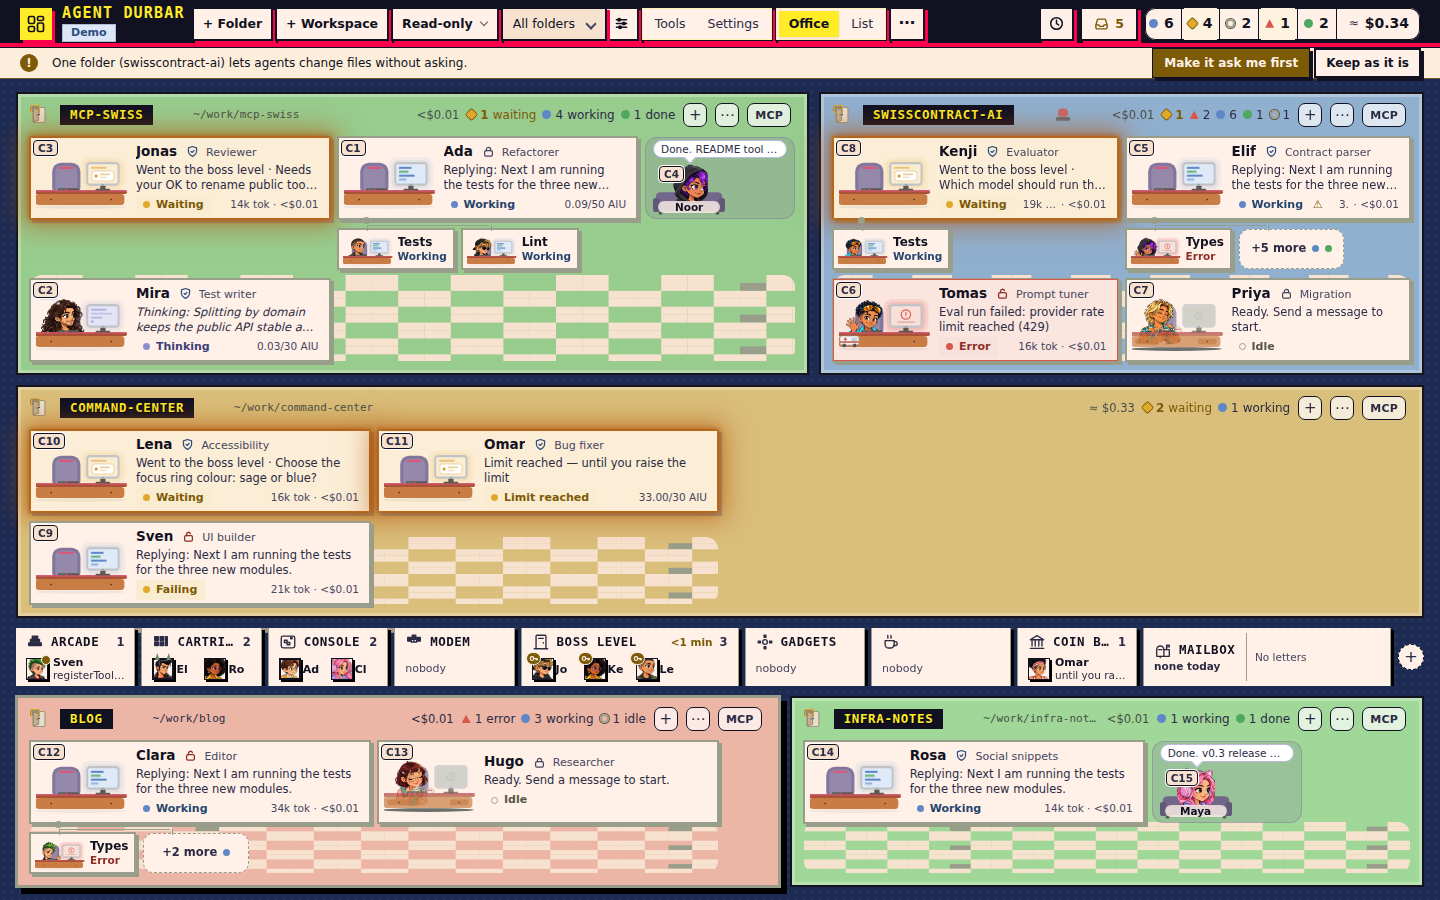
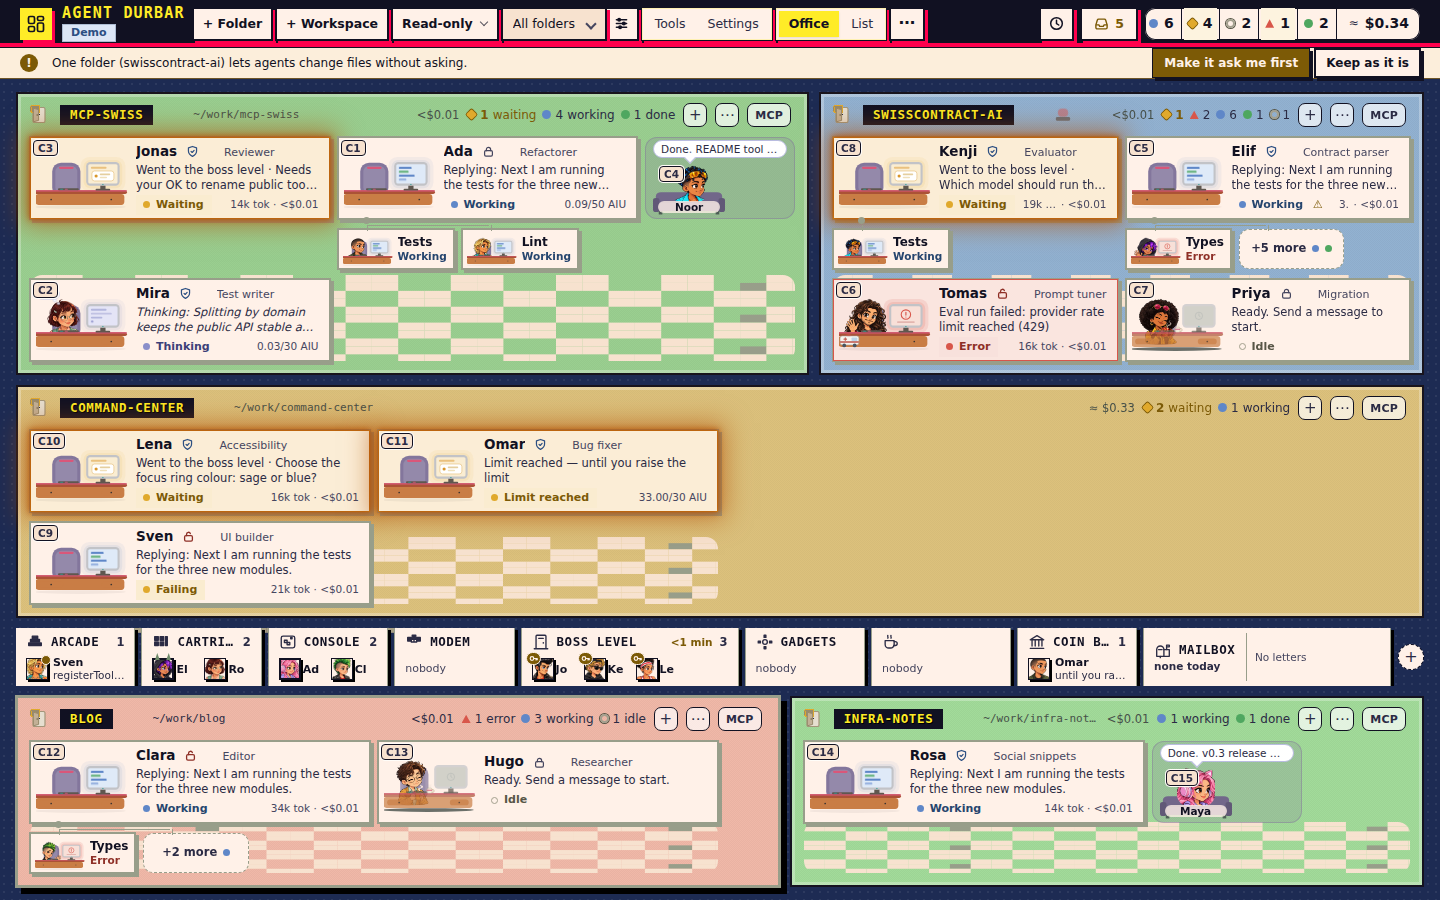
077 FR-073: the simulator gives each demo agent a crew character that fits its name (#879)

diff --git a/scripts/test-crew.ts b/scripts/test-crew.ts
@@ -1,5 +1,6 @@
 /** Cheeky crew (spec 077): the pure pick and storage rules of src/renderer/crew.js. `npm run test:crew`. No DOM, no credits. */
 import * as assert from 'assert';
+import * as fs from 'fs';
 import * as path from 'path';
 
 // eslint-disable-next-line @typescript-eslint/no-var-requires
@@ -160,5 +161,50 @@ assert.deepStrictEqual(Object.keys(C.FACE).sort(), [...C.ALL_IDS].sort(), 'a fac
   const ss = Array.from({ length: 13 }, (_, i) => 's' + i);
   const m = C.assignCrew({}, ss, C.IDS, (id) => C.seededRand(id));
   assert.strictEqual(new Set(Object.values(m)).size, 13, 'thirteen sessions wear thirteen different characters');
+}
+
+// ---- spec 077 FR-073 (issue #879): the simulator gives each demo name a fitting character; real sessions are untouched ----
+{
+  // eslint-disable-next-line @typescript-eslint/no-var-requires
+  const S = require(path.join(__dirname, '..', '..', 'src', 'renderer', 'simcrew.js')) as {
+    NAMES: Record<string, string[]>; CREW_KEYS: string[]; keyFor: (c: unknown) => string;
+    characterFor: (c: unknown, name: unknown, ids?: string[]) => string; seed: (c: unknown, agents: unknown[], ids?: string[]) => Record<string, string>;
+  };
+  const root = path.join(__dirname, '..', '..');
+  const simTs = fs.readFileSync(path.join(root, 'src', 'renderer', 'sim.ts'), 'utf8');
+  const roster = simTs.slice(simTs.indexOf('const ROSTER: Row[] = ['), simTs.indexOf('// Spec 052 FR-046: each waiting agent'));
+  const demoNames = [...roster.matchAll(/^\s*\['([A-Z][a-z]+)', '/gm)].map((m) => m[1]);
+  assert.ok(demoNames.length >= 15 && demoNames.includes('Ada') && demoNames.includes('Hugo'), 'found the simulator roster: ' + demoNames.join(','));
+  assert.deepStrictEqual(S.CREW_KEYS, Object.keys(C.CREWS), 'one column per crew, in the crews\' order');
+  for (const choice of Object.keys(C.CREWS)) {
+    const ids = C.idsFor(choice), used = new Set<string>();
+    for (const n of demoNames) {
+      const c = S.characterFor(choice, n, ids);
+      assert.ok(ids.includes(c), n + ' has a character of the ' + choice + ' crew, got "' + c + '"');
+      used.add(c);
+    }
+    assert.strictEqual(used.size, ids.length, 'every ' + choice + ' character is worn by some demo name');
+  }
+  assert.deepStrictEqual([S.NAMES.Ada, S.NAMES.Hugo], [['gamer', 'braids'], ['bookworm', 'inventor']], 'the anchors the driver checks: Ada a woman\'s character, Hugo a man\'s');
+  assert.deepStrictEqual(Object.keys(S.NAMES).sort(), [...demoNames].sort(), 'the table has a row for every demo name and no other');
+  // the table never uses a character from another crew, and the theme\'s own / an unknown value draw the Cheeky crew like crew.js
+  assert.strictEqual(S.keyFor('theme'), 'cheeky'); assert.strictEqual(S.keyFor('prehistoric'), 'prehistoric');
+  assert.strictEqual(S.characterFor('cheeky', 'Ada', C.PREHISTORIC_IDS), '', 'an id that is not in the crew is refused');
+  assert.strictEqual(S.characterFor('cheeky', 'Task: fix the build'), '', 'a name without a row (a real session) gets nothing');
+  assert.strictEqual(S.characterFor('cheeky', '__proto__'), '', 'only own rows count');
+  // seed: main agents only, by the agent\'s own name
+  const agents = [{ id: 'sim-1', baseName: 'Ada', name: 'a very long alias' }, { id: 'sim-2', name: 'Hugo' }, { id: 'h1', parent: 'sim-1', name: 'Ada' }, { id: 'r1', name: 'Fix the build' }];
+  assert.deepStrictEqual(S.seed('cheeky', agents, C.IDS), { 'sim-1': S.NAMES.Ada[0], 'sim-2': S.NAMES.Hugo[0] }, 'helpers and unknown names are not seeded');
+  assert.deepStrictEqual(S.seed('prehistoric', agents, C.PREHISTORIC_IDS), { 'sim-1': S.NAMES.Ada[1], 'sim-2': S.NAMES.Hugo[1] });
+  assert.deepStrictEqual(S.seed('cheeky', [], C.IDS), {});
+  // and the seeded map goes through the same assignCrew as before: the unseeded sessions get a random character, the seeded keep theirs
+  const m = C.assignCrew(S.seed('cheeky', agents, C.IDS), ['sim-1', 'sim-2', 'r1'], C.IDS, (id) => C.seededRand(id));
+  assert.strictEqual(m['sim-1'], S.NAMES.Ada[0]); assert.ok(C.IDS.includes(m.r1));
+  // the real-session path is untouched: the table is read only in app.js's syncCrew, only under SIM, and crew.js does not know it
+  const app = fs.readFileSync(path.join(root, 'src', 'renderer', 'app.js'), 'utf8');
+  const uses = app.split('\n').filter((l) => l.includes('DurbarSimCrew'));
+  assert.strictEqual(uses.length, 1, 'app.js reads the table in one place');
+  assert.ok(/SIM&&window\.DurbarSimCrew\?window\.DurbarSimCrew\.seed\(/.test(uses[0]), 'and only when SIM is on');
+  assert.ok(!/simcrew|DurbarSimCrew/i.test(fs.readFileSync(path.join(root, 'src', 'renderer', 'crew.js'), 'utf8')), 'crew.js does not know the table');
 }
 console.log('crew tests passed');

diff --git a/scripts/check-crew.js b/scripts/check-crew.js
@@ -6,7 +6,7 @@
  *   - every desk scene draws exactly one portrait, in its fixed box, and that box keeps clear of the protected zones of FR-014 (the
  *     monitor and halo, the thought bubble and chat badge corner, the cup zone); the picture is the pose of the desk's status;
  *   - every picture loads (natural size known) and is drawn at no more than half its natural size (sharp, FR-051);
- *   - several characters are in use (the simulator's seeded least-used pick), and no desk shows a broken picture or a console error;
+ *   - several characters are in use (the simulator gives each demo name a fitting character, spec 077 FR-073: Ada and Hugo are checked), and no desk shows a broken picture or a console error;
  *   - the walking figures, chat strip chips and the lounge draw the portrait too.
  * At 1920x1080 with 2 agents (grown desks, spec 001 FR-041) the largest shown size of a portrait is still at most half its natural size.
  * Then the review fixes of PR 621: sessions removed (the map, the helpers), a character falling back after the header and the inbox are open, and crew.js itself missing.
@@ -256,7 +256,19 @@ async function runCrew(ctx, full) {
       sharpOk(`${tag} scene ${i}`, im, nat[im.href]);
     }
     await faceChecks(tag);
-    assert.ok(seen.size === CREW_IDS.length, `${tag}: all ${CREW_IDS.length} ${CHARS} characters on screen with 15 agents (least-used pick) (${[...seen]})`);
+    assert.ok(seen.size === CREW_IDS.length, `${tag}: all ${CREW_IDS.length} ${CHARS} characters on screen with 15 agents (the simulator's name table uses every one, FR-073) (${[...seen]})`);
+    // spec 077 FR-073 (issue #879): the simulator gives each demo name its fitting character; Ada and Hugo are the check's anchors (literals, not read from the table)
+    const want = { cheeky: { Ada: 'gamer', Hugo: 'bookworm' }, prehistoric: { Ada: 'braids', Hugo: 'inventor' } }[CHARS];
+    const SC = require('../src/renderer/simcrew.js');
+    assert.ok(await H.until(`(()=>{const U=window.__durbarSimUi,s=U.crew.state();return U.agents().filter((x)=>!x.parent).every((x)=>s.map[x.id]);})()`, 6000), `${tag}: every main agent has a character`);
+    const named = await H.js(`(()=>{const U=window.__durbarSimUi,s=U.crew.state();return U.agents().filter((x)=>!x.parent).map((x)=>{const d=document.querySelector('#stage .desk[data-id="'+x.id+'"] svg.scene');return {name:x.baseName||x.name,c:s.map[x.id],sig:d?d.dataset.sig||'':null};});})()`);
+    for (const [n, c] of Object.entries(want)) {
+      const a = named.find((x) => x.name === n);
+      assert.ok(a, `${tag}: the demo agent ${n} is in the office`);
+      assert.strictEqual(a.c, c, `${tag}: ${n} wears ${c} in the ${CHARS} crew (got ${a.c})`);
+      assert.ok(a.sig && a.sig.includes('|crew|' + c), `${tag}: ${n}'s desk draws ${c} (sig ${a.sig})`);
+    }
+    for (const a of named) assert.strictEqual(a.c, SC.characterFor(CHARS, a.name, CREW_IDS), `${tag}: ${a.name} wears its table character`);
     for (const [kind, list] of [['walker', s.walkers], ['chip', s.chips], ['lounge figure', s.lounge]]) for (const [i, imgs] of list.entries()) {
       assert.strictEqual(imgs.length, 1, `${tag}: ${kind} ${i} draws the portrait`);
       sharpOk(`${tag} ${kind} ${i}`, imgs[0], nat[imgs[0].href]);

diff --git a/src/renderer/simcrew.js b/src/renderer/simcrew.js
@@ -1,0 +1,49 @@
+/* Simulator only (spec 077 FR-073, issue #879): the crew character each demo agent wears, by its name, so "Ada" does not turn up as a bearded
+   caveman. app.js asks only when the page runs under the simulator (`?sim=`); real sessions, saved choices and crew.js's random pick are untouched,
+   and there are no gender tags in the app: this is a fixed table for the demo and its screenshots. Each row was chosen by looking at the art
+   (the reading of each character is in specs/077-cheeky-crew/spec.md, FR-073). A crew with fewer fitting characters than names reuses some
+   (Prehistoric has 6 characters for 15 names). A later crew adds its own column. In the page: window.DurbarSimCrew; in Node: module.exports. */
+(function (root, api) {
+  if (typeof module === 'object' && module.exports) module.exports = api; else root.DurbarSimCrew = api;
+})(typeof self !== 'undefined' ? self : this, (function () {
+  'use strict';
+  /* name: [cheeky, prehistoric] (the order of CREW_KEYS) */
+  const CREW_KEYS = ['cheeky', 'prehistoric'];
+  const NAMES = {
+    Ada: ['gamer', 'braids'],
+    Mira: ['bob-glasses', 'ponytail'],
+    Jonas: ['rocker', 'bigbeard'],
+    Noor: ['scientist', 'inventor'],
+    Kenji: ['skater', 'inventor'],
+    Elif: ['hacker', 'shaman'],
+    Tomas: ['metalhead', 'youngbeard'],
+    Priya: ['disco', 'braids'],
+    Lena: ['sporty', 'ponytail'],
+    Omar: ['buzzcut', 'youngbeard'],
+    Sven: ['surfer', 'bigbeard'],
+    Clara: ['punk', 'shaman'],
+    Hugo: ['bookworm', 'inventor'],
+    Rosa: ['bob-glasses', 'braids'],
+    Maya: ['gamer', 'ponytail'],
+  };
+  /* the key of a Characters value: the Cheeky crew is also what the theme's own crew and an unknown value draw (crew.js idsFor) */
+  const keyFor = (choice) => choice === 'prehistoric' ? 'prehistoric' : 'cheeky';
+  const has = (o, k) => Object.prototype.hasOwnProperty.call(o, k);
+  /* the character of a demo name in a crew, or '' when the name has no row or the id is not one of `ids` */
+  function characterFor(choice, name, ids) {
+    const row = typeof name === 'string' && has(NAMES, name) ? NAMES[name] : null;
+    const c = row ? row[CREW_KEYS.indexOf(keyFor(choice))] : '';
+    return c && (!ids || ids.includes(c)) ? c : '';
+  }
+  /* { session id: character } for the main agents of the office that have a row (agents: [{id, baseName, name, parent}]) */
+  function seed(choice, agents, ids) {
+    const out = {};
+    for (const a of agents || []) {
+      if (!a || a.parent) continue;
+      const c = characterFor(choice, a.baseName || a.name, ids);
+      if (c) out[a.id] = c;
+    }
+    return out;
+  }
+  return { NAMES, CREW_KEYS, keyFor, characterFor, seed };
+})());

diff --git a/scripts/copy-assets.js b/scripts/copy-assets.js
@@ -6,7 +6,7 @@ const root = path.resolve(__dirname, '..');
 const srcDir = path.join(root, 'src', 'renderer');
 const outDir = path.join(root, 'dist', 'renderer');
 fs.mkdirSync(outDir, { recursive: true });
-for (const f of ['index.html', 'styles.css', 'app.js', 'harnesses.js', 'signin.js', 'demo.js', 'markdown.js', 'dialog.js', 'innerscroll.js', 'sessionname.js', 'inlinename.js', 'roomsummary.js', 'sessionsearch.js', 'usagetotals.js', 'costtable.js', 'modelswitch.js', 'schedtemplates.js', 'places.js', 'newfolder.js', 'floornav.js', 'cuttext.js', 'slashsuggest.js', 'notes.js', 'probe.js', 'grantlabel.js', 'whyallowed.js', 'sandboxtext.js', 'mcpwords.js', 'editview.js', 'place-icons.js', 'mood.js', 'retry.js', 'attention.js', 'unread.js', 'keys.js', 'activity.js', 'toolstats.js', 'theme.js', 'themes.css', 'scenekits.js', 'screens.js', 'screens.css', 'activitytable.js', 'gitstatus.js', 'sessionsummary.js', 'checkpoints.js', 'exports-shim.js', 'liveact.js', 'safetext.js', 'helpercard.js', 'foldersetup.js', 'navigator.js', 'crew.js', 'composersize.js', 'ctxbreakdown.js', 'shutters.js', 'coffeebreak.js', 'profileeditor.js', 'simclock.js', 'schedtop.js', 'schedhist.js', 'browserpane.js']) {
+for (const f of ['index.html', 'styles.css', 'app.js', 'harnesses.js', 'signin.js', 'demo.js', 'markdown.js', 'dialog.js', 'innerscroll.js', 'sessionname.js', 'inlinename.js', 'roomsummary.js', 'sessionsearch.js', 'usagetotals.js', 'costtable.js', 'modelswitch.js', 'schedtemplates.js', 'places.js', 'newfolder.js', 'floornav.js', 'cuttext.js', 'slashsuggest.js', 'notes.js', 'probe.js', 'grantlabel.js', 'whyallowed.js', 'sandboxtext.js', 'mcpwords.js', 'editview.js', 'place-icons.js', 'mood.js', 'retry.js', 'attention.js', 'unread.js', 'keys.js', 'activity.js', 'toolstats.js', 'theme.js', 'themes.css', 'scenekits.js', 'screens.js', 'screens.css', 'activitytable.js', 'gitstatus.js', 'sessionsummary.js', 'checkpoints.js', 'exports-shim.js', 'liveact.js', 'safetext.js', 'helpercard.js', 'foldersetup.js', 'navigator.js', 'crew.js', 'simcrew.js', 'composersize.js', 'ctxbreakdown.js', 'shutters.js', 'coffeebreak.js', 'profileeditor.js', 'simclock.js', 'schedtop.js', 'schedhist.js', 'browserpane.js']) {
   fs.copyFileSync(path.join(srcDir, f), path.join(outDir, f));
 }
 // spec 077: the Cheeky Crew portraits (bundled pictures only; the page's CSP allows img-src 'self'). electron-builder packs dist/**/*, so they ship.

diff --git a/src/renderer/app.js b/src/renderer/app.js
@@ -72,7 +72,7 @@ const crewMainIds=()=>agents.filter(a=>!a.parent).map(a=>a.id);
 function syncCrew(){
   if(!CREW)return;
   const ch=crewChoice(), ids0=crewIds(ch);
-  if(crewStale()){CREW_FOR=agents;CREW_CH=ch;CREW_MAP={};CREW_HELP={};if(!demoOn&&rememberOn()){try{CREW_MAP=CREW.loadCrew(localStorage.getItem(CREW.storeKey(ch)),ids0);}catch(e){CREW_MAP={};}}}
+  if(crewStale()){CREW_FOR=agents;CREW_CH=ch;CREW_MAP=SIM&&window.DurbarSimCrew?window.DurbarSimCrew.seed(ch,agents,ids0):{};CREW_HELP={};if(!demoOn&&rememberOn()){try{CREW_MAP=CREW.loadCrew(localStorage.getItem(CREW.storeKey(ch)),ids0);}catch(e){CREW_MAP={};}}}
   const ids=crewMainIds(); CREW_IDS=ids.join('\n');
   for(const h of Object.keys(CREW_HELP))if(!agents.some(a=>a.id===h))delete CREW_HELP[h]; /* a removed helper frees its character */
   /* a session that is gone frees its character once the office has loaded (before that, restored sessions keep theirs) */

diff --git a/src/renderer/index.html b/src/renderer/index.html
@@ -146,6 +146,7 @@
 <script src="keys.js"></script>
 <script src="navigator.js"></script>
 <script src="crew.js"></script>
+<script src="simcrew.js"></script><!-- spec 077 FR-073: the simulator's name -> character table, read only when the page runs under ?sim= -->
 <script src="composersize.js"></script>
 <script src="activity.js"></script>
 <script src="shutters.js"></script>

diff --git a/specs/077-cheeky-crew/spec.md b/specs/077-cheeky-crew/spec.md
@@ -256,6 +256,7 @@ The issue says *The theme's own* is "Minimalist in the normal themes; Pixel and 
 
 - 2026-10-29 (issue #871, owner Paco): **FR-071** `[IMPLEMENTED]` **A sleeping crew character in a nap bed reads like the couch seat.** With Characters = Cheeky, a character in a bed slot was the round face crop turned 80 degrees at the bottom left of a tall bunk column (two posts, a bed 34 px high, the name floating at the top, the chat number over the bed's foot). Now (1) it is the **same head-and-shoulders crop as a couch seat** (`avatar(a, 'seat')`, FR-060), upright on the pillow, with the blanket drawn over its lower edge, never rotated or cut; (2) the **name sits under the figure and the chat number on its top-left corner, as on the couch** (the issue 576 rule, name on top and number at the foot, stays for the other kits, whose figure lies down); (3) a bunk that holds **one bed** (a lone or odd sleeper) has **no posts** and its bed slot takes the whole column height, so the bed is drawn at a sensible size (up to 44 px high, 72 px wide) and the figure as large as the couch's; two beds in one column still split it in half. Bed slots of other kits keep their drawing; a lone bed there loses its posts. `[KNOWN GAP]` two stacked sleepers at 1280x800 each get a slot about 29 px high: the head and shoulders shrink to what fits (about 16 px), as the couch seats do in a short row (the badge check is skipped below 30 px). *Check:* `check:crew` lounge step at 1440x900 and 1280x800 (a lone sleeper with a couch next to it): the figure inside the bed slot and the lounge, the face box not clipped, the name under the figure, the chip clear of the face, the bed at least 26 px high.
 - 2026-10-29 (issue #815, crew 1 of 5; owner Paco, art signed off on #815 on 2026-10-27, "estan bien"): **FR-072** `[IMPLEMENTED]` (`test:` `test:crew`, `test:characters`, `test:crew-assets`; `sim:` `check-crew`, `check-characters`) **The Prehistoric Crew, a second Characters value** (FR-064: "New crews are added later as more values"). (1) The list gets `prehistoric` (label **Prehistoric**), appended, so `theme`, `minimalist` and `cheeky` keep their place; it draws the same `crew` kit (FR-065 unchanged: on top of any theme). `src/shared/characters.ts`, `theme.js` and `api.ts` carry it; `settings:setCharacters` accepts it and the file stores it. (2) `crew.js` is generalised, not forked: `IDS` stays the 13 Cheeky ids in the same order (saved choices unchanged, still under `durbar.crew`); `PREHISTORIC_IDS` = youngbeard, braids, bigbeard, ponytail, inventor, shaman; `idsFor(choice)` gives the list of a Characters value (anything else: Cheeky) and `storeKey(choice)` its localStorage key (`durbar.crew.prehistoric` for the new crew), so each crew keeps its own map and switching crews never mixes ids; an id is in one crew only. `app.js` asks for the active crew's ids, preloads that crew's pictures once and reloads the map when the Characters value changes. (3) Art (FR-050, FR-054): 6 characters x 3 poses = 18 WebP files `crew/art/prehistoric-<id>-<pose>.webp` (352x352, alpha, at most 40 KB, no metadata), made by Paco in ChatGPT on 2026-10-27, speck-cleaned (islands of 40 pixels or fewer removed) by Paco's agent, licence MIT (#799), with a row each in `ASSETS.md`. The total size cap of `test:crew-assets` goes from 1.5 MB to 2.5 MB (13 + 6 characters are about 1.8 MB). (4) `FACE` has a point per character and pose, read from each picture with a 50 px grid like the others (FR-060); `test:crew` and `check-crew` check the crop and the face box for every picture. (5) Settings lists it as the fourth choice with a portrait preview (FR-068). (6) `check-crew` runs the desks, poses, sharpness, faces, glow, idle, bed-slot and missing-picture steps for both crews at 1440x900 and 1280x800 (`CREW_CHARS` picks one); `check-characters` picks Prehistoric too. Other crews will be added the same way. Not verified: Windows and macOS (simulator on Linux only).
+- 2026-10-29 (issue #879; owner Paco, option 1 of 3 in his DM to his agent): **FR-073** `[IMPLEMENTED]` (`test:` `test:crew`; `sim:` `check-crew`) **In the simulator, each demo agent wears a character that fits its name**, per crew. Before, the random pick (FR-003) often dressed "Ada" as a bearded caveman. (1) `src/renderer/simcrew.js` is a fixed table, demo name -> one character id per crew (Cheeky, Prehistoric; a later crew adds a column). It was made by looking at the art: man, woman or neutral reading of each character, chosen once; there are no gender tags anywhere in the app. (2) `app.js` asks it only when the page runs under the simulator (`SIM`, `?sim=`): when a crew's map for the office is (re)built (`syncCrew`), it starts from the table (by the agent's own name, `baseName`, so a long alias or a rename does not change it) instead of empty, and the existing `assignCrew` fills the rest. `crew.js` is unchanged; real sessions, the web demo, saved choices (`durbar.crew*`) and helpers (random, as before) are untouched. (3) The table: Cheeky, women Ada gamer, Mira bob-glasses, Elif hacker, Priya disco, Lena sporty, Clara punk, Rosa bob-glasses (reused), Maya gamer (reused); unisex Noor scientist; men Jonas rocker, Tomas metalhead, Kenji skater, Omar buzzcut, Sven surfer, Hugo bookworm. Prehistoric (only six characters for 15 names, so reuse): Ada, Priya, Rosa braids; Mira, Lena, Maya ponytail; Elif, Clara shaman; Jonas, Sven bigbeard; Tomas, Omar youngbeard; Noor, Kenji, Hugo inventor. Reused rows are in different rooms where the default roster allows it. Reading of the Cheeky art: gamer, bob-glasses, disco and sporty women; hacker and punk neutral, leaning woman and androgynous; scientist neutral; buzzcut neutral, leaning man; rocker, metalhead, surfer, bookworm and skater men. Prehistoric: braids, ponytail women; shaman neutral, leaning woman; youngbeard and bigbeard men; inventor neutral, leaning boy. [KNOWN GAP] the readings are one person's look at drawn faces, not a claim about anyone; a new demo name needs a row (a name without one keeps the random pick).
 
 ## Owner answers (Paco, 2026-10-23)
 

diff --git a/specs/077-cheeky-crew/tasks.md b/specs/077-cheeky-crew/tasks.md
@@ -98,3 +98,7 @@ Q2-Q8 are answered; **Q1 (art format) is open again** (2026-10-23). Tasks are ma
 - [x] T087 18 pictures `crew/art/prehistoric-*.webp` (speck-cleaned) and their `ASSETS.md` rows; the size cap raised [FR-072, FR-050, FR-054]
 - [x] T088 Tests: `test:crew`, `test:characters`, `test:crew-assets` for the new value, Cheeky unchanged; `check-crew` runs both crews at both sizes (`CREW_CHARS`), `check-characters` picks Prehistoric [FR-072]
 - [x] T089 Docs: README, changelog fragment, the linked Settings screenshots retaken [FR-072]
+- [x] T090 Spec delta FR-073 [spec]
+- [x] T091 `simcrew.js` (demo name -> character per crew), seeded in `app.js` `syncCrew` under the simulator only [FR-073]
+- [x] T092 Tests: `test:crew` (every demo name has a valid id in each crew, the real path is untouched); `check-crew` asserts Ada and Hugo wear their characters in both crews at both sizes [FR-073]
+- [x] T093 Docs: changelog fragment, the linked screenshots that show crew characters retaken [FR-073]

diff --git a/changelog.d/077-sim-crew-names.md b/changelog.d/077-sim-crew-names.md
@@ -1,0 +1,1 @@
+- **Simulator: crew characters fit the demo names** (spec 077 FR-073, issue #879): in the simulator, each demo agent wears a Cheeky or Prehistoric character that suits its name (Ada no longer turns up as a bearded caveman), the same every run, so the demo and its screenshots are stable. Real sessions keep the random pick and saved choices are unchanged. Checked with `test:crew` and the `check-crew` driver at 1440x900 and 1280x800.
